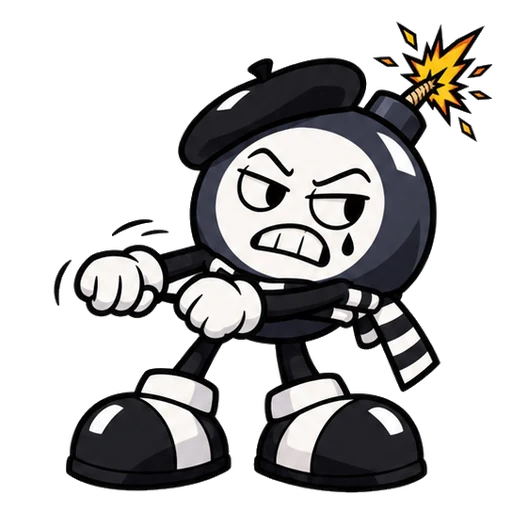
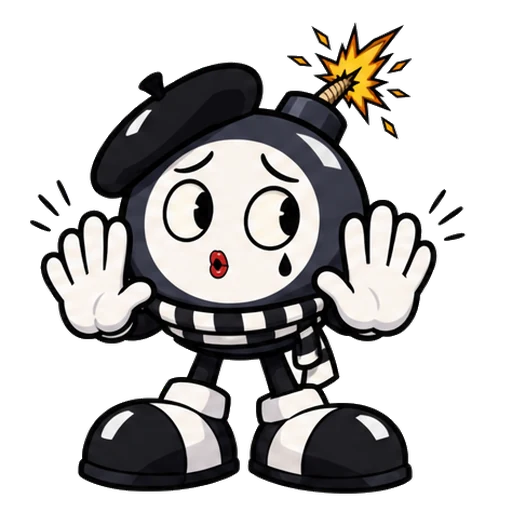
feat: SHH + SIZZLE idles repainted at 6 frames

diff --git a/src/cast/cast.js b/src/cast/cast.js
@@ -387,9 +387,11 @@ export const CAST_FRAMES = {
   // 6 frames: finger up → to the glasses → push up, *glint* → book swung open → taps the page, lecturing → hugs it, smug
   lexi: { n: 6, seq: [[1, 260], [2, 620], [3, 420], [4, 780], [5, 1000]], rest: 1900 },
   // SHH: finger to lips → the invisible wall → the invisible rope → a smug bow
-  shh: { n: 4, seq: [[1, 800], [2, 380], [0, 120], [2, 380], [3, 1100]], rest: 2000 },
+  // 6 frames: finger to lips → palms up → the invisible WALL → slides along it → the invisible rope → a smug bow
+  shh: { n: 6, seq: [[1, 260], [2, 620], [3, 520], [4, 620], [5, 1000]], rest: 1900 },
   // SIZZLE: thumbs up → a big swig → breathes FIRE, hat flies → sweating, still grinning
-  sizzle: { n: 4, seq: [[1, 650], [2, 900], [3, 1100]], rest: 1900 },
+  // 6 frames: thumbs up → tips the bottle → a big swig → cheeks puff, eyes water → breathes FIRE, hat flies → sweating, grinning
+  sizzle: { n: 6, seq: [[1, 260], [2, 520], [3, 460], [4, 800], [5, 1000]], rest: 1800 },
   // 6-FRAME loops (oct19, Andy: "we can add in more frames bc currently its a bit too choppy"): a 3x2 wide sheet = six
   // full-res frames, each a small step from the last, so the beats flow instead of jumping
   // QUILL recites: breath in → unrolls the scroll → arm swept wide → quill flourish → rolls it up, a smug little bow
